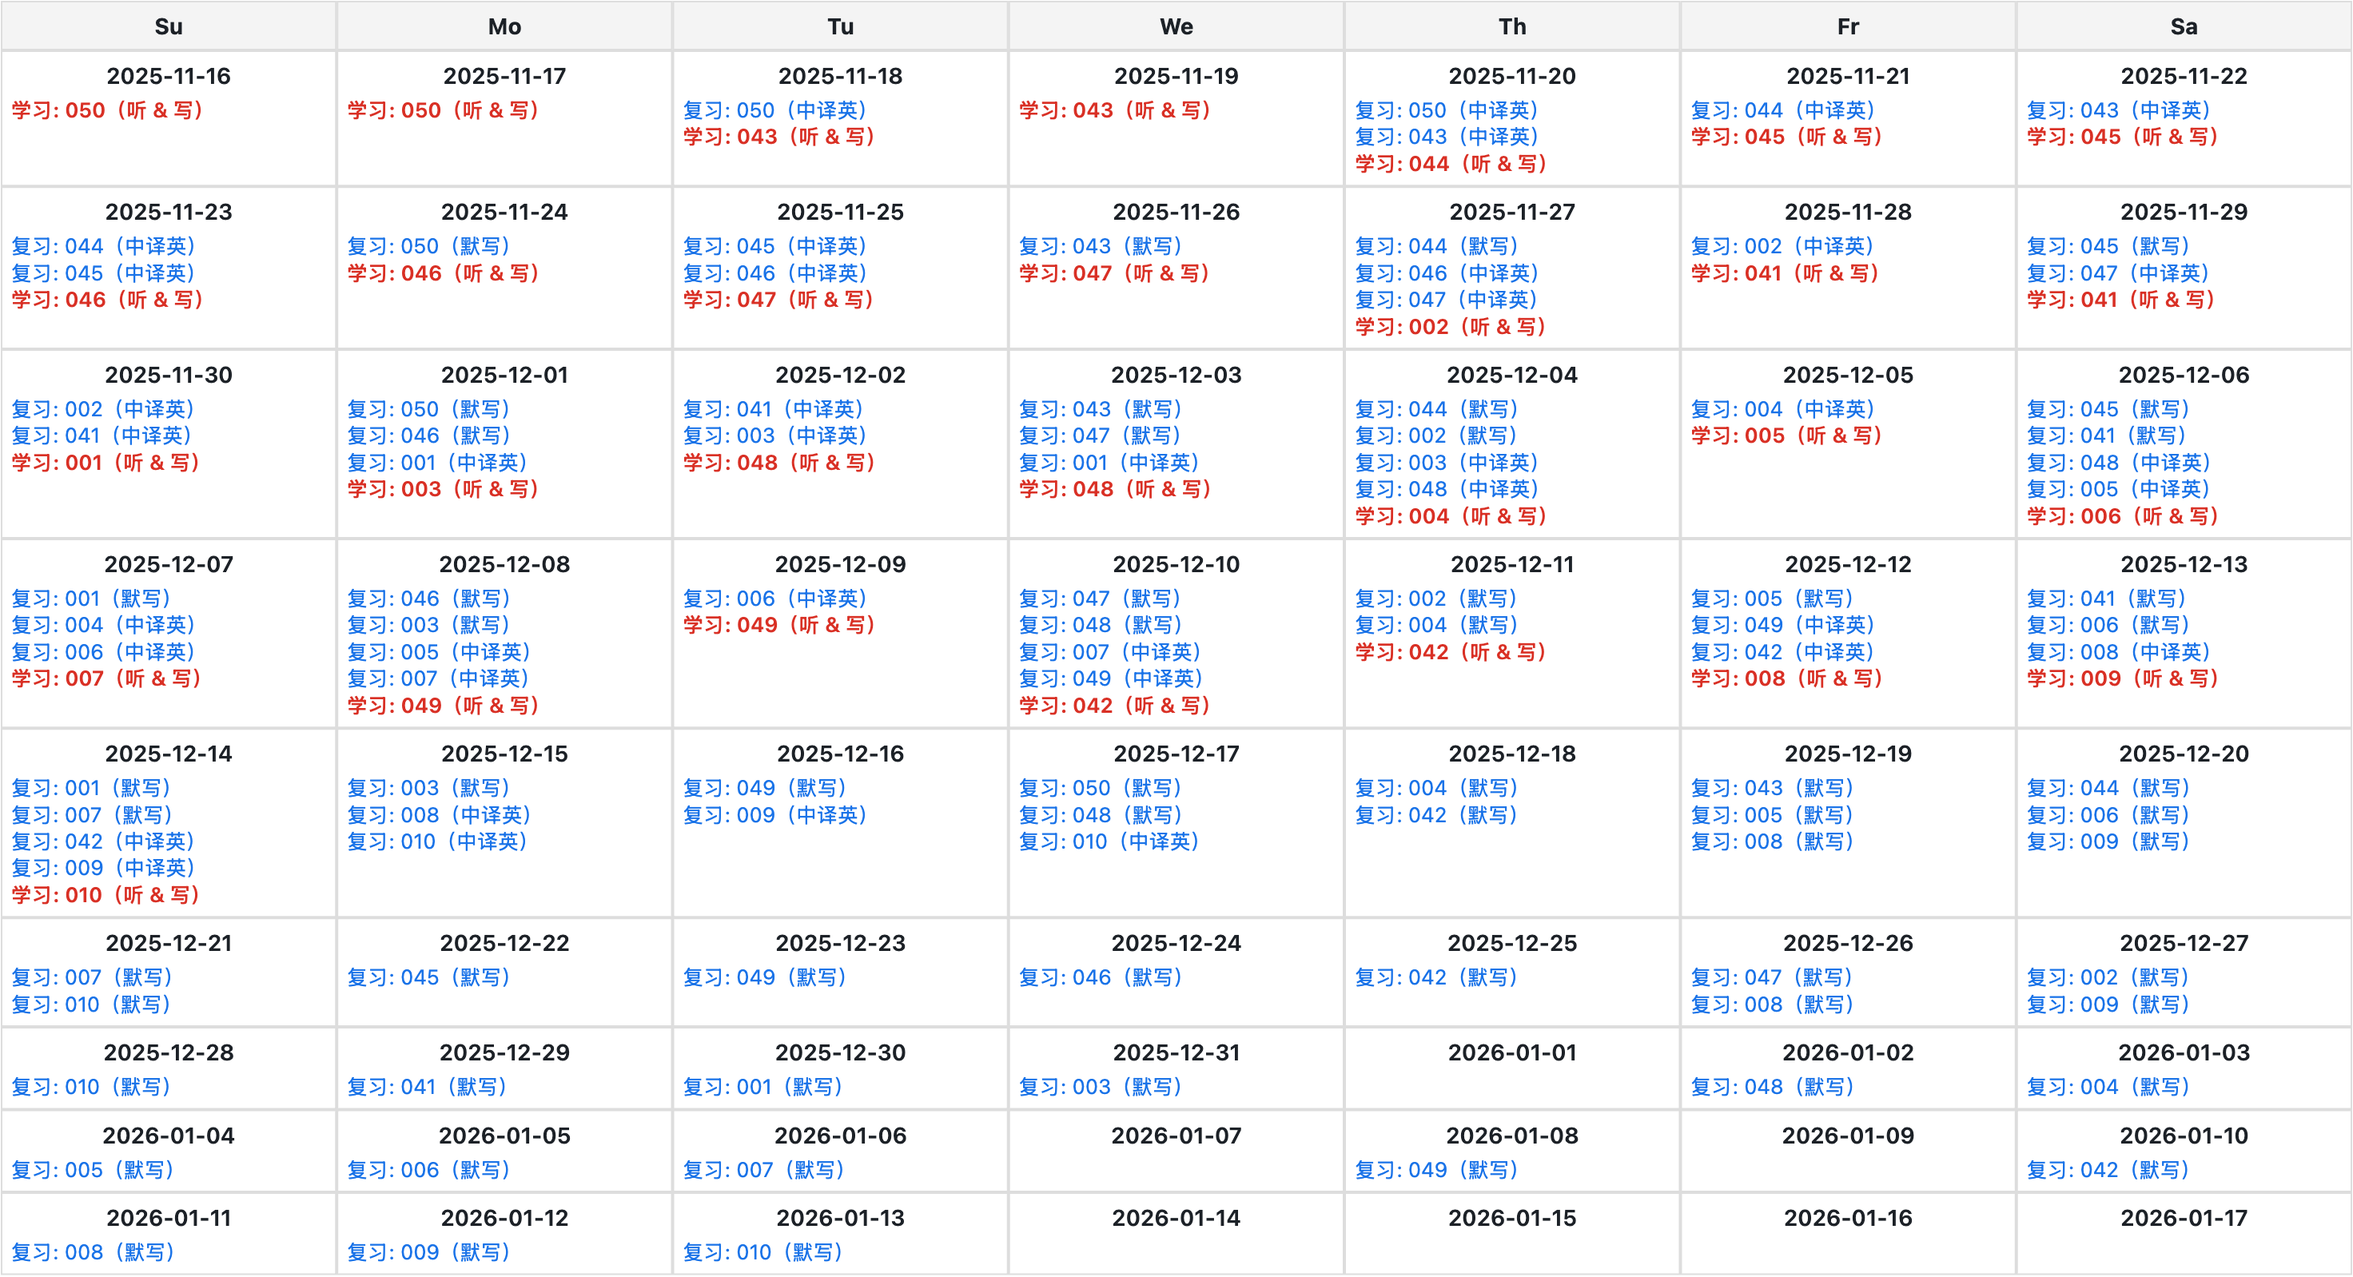
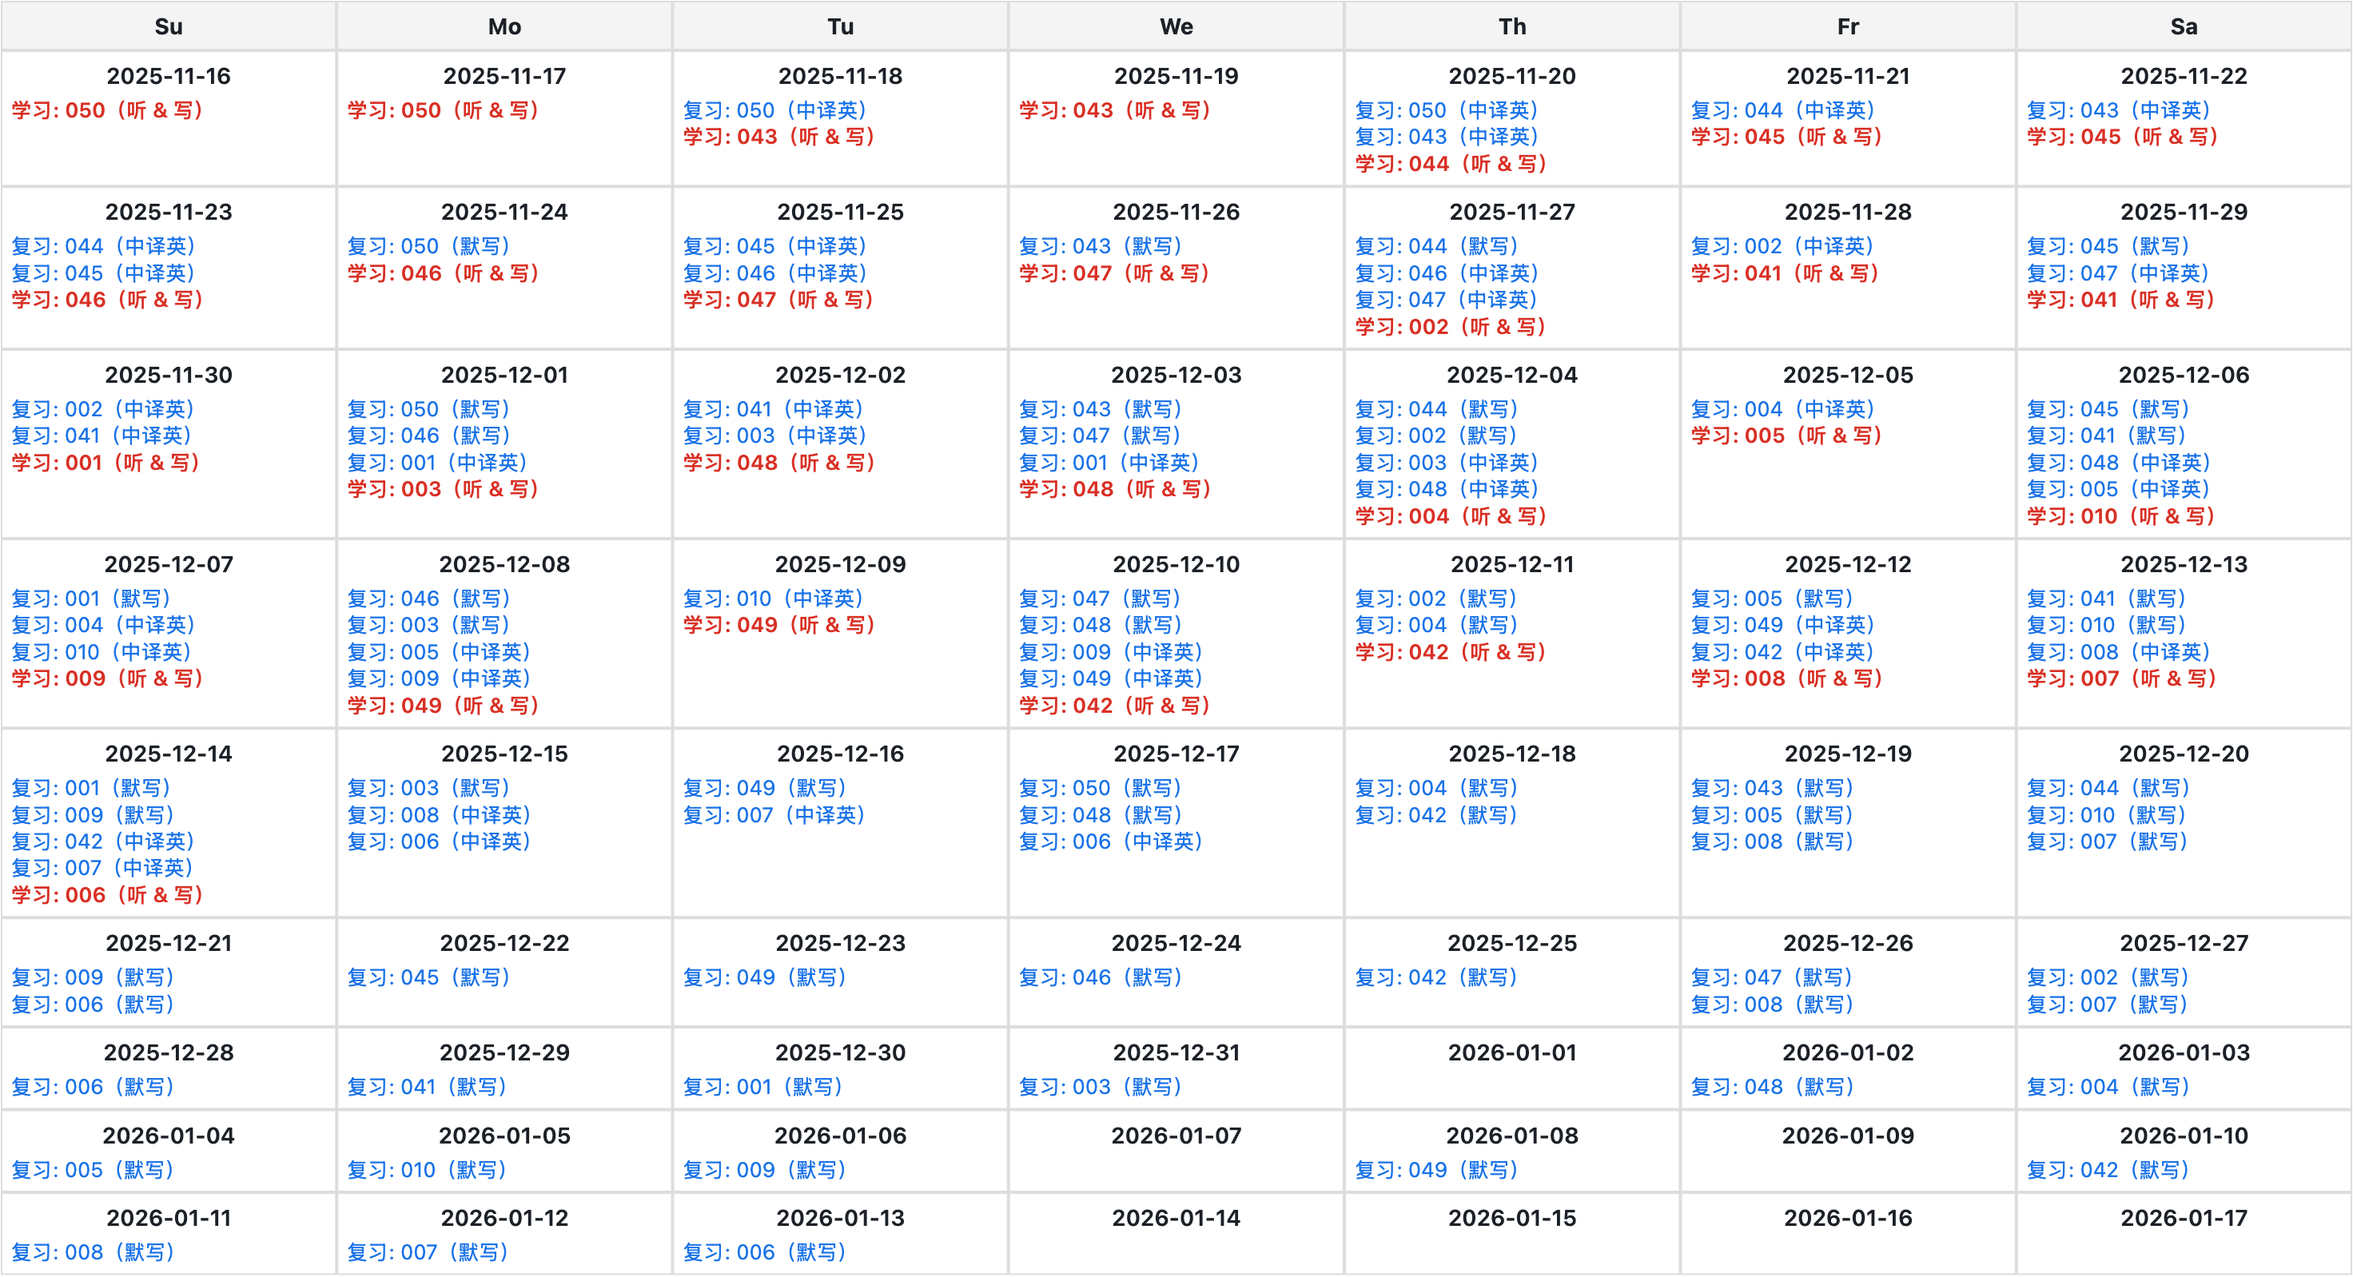
review: Unit 8-2, Unit 14-1, Unit 14-2

diff --git a/english/write/utils/compare-online.html b/english/write/utils/compare-online.html
@@ -181,10 +181,24 @@
         <div><span class="red-text-green-bg">(Red text, green background)</span> = Spelling mistake</div>
     </div>
 </div>
-<button onclick="compare()" id="compareBtn" class="hidden"
-        style="background-color: #F9F9F9; color: #000; padding: 8px 16px; border: none; border-radius: 4px; cursor: pointer; font-size: 16px; margin-top: 10px; transition: background-color 0.3s;">
-    Compare
-</button>
+<div style="display: flex; gap: 8px; margin-top: 10px;">
+    <button onclick="compare()" id="compareBtn" class="hidden"
+            style="background-color: #F9F9F9; color: #000; padding: 8px 16px; border: none; border-radius: 4px; cursor: pointer; font-size: 16px; transition: background-color 0.3s;">
+        Compare
+    </button>
+    <button onclick="reset()" id="resetBtn" class="hidden"
+            style="background-color: #f44336; color: white; padding: 8px 16px; border: none; border-radius: 4px; cursor: pointer; font-size: 16px; transition: background-color 0.3s;">
+        Reset
+    </button>
+</div>
+
+<script>
+  // Reset function needs to be defined before the other script
+  function reset() {
+    document.getElementById('textB').value = '';
+    document.getElementById('result').innerHTML = '';
+  }
+</script>
 
 <div id="result" class="diff"></div>
 
@@ -209,6 +223,7 @@
       document.getElementById('textBLabel').classList.remove('hidden');
       document.getElementById('legend').classList.remove('hidden');
       document.getElementById('compareBtn').classList.remove('hidden');
+      document.getElementById('resetBtn').classList.remove('hidden');
 
       // Dictation 模式才显示音频上传
       if (currentMode === 'Dictation') {

diff --git a/utils/html/generate-forgetting-curve-with-task-duration.html b/utils/html/generate-forgetting-curve-with-task-duration.html
@@ -188,15 +188,15 @@
 
         {name: '004', duration: 1},
         {name: '005', duration: 1},
-        {name: '006', duration: 1},
-        {name: '007', duration: 1},
+        {name: '010', duration: 1},
+        {name: '009', duration: 1},
 
         {name: '049', duration: 2},
         {name: '042', duration: 2},
 
         {name: '008', duration: 1},
-        {name: '009', duration: 1},
-        {name: '010', duration: 1}
+        {name: '007', duration: 1},
+        {name: '006', duration: 1},
       ],
       rounds: ['听 & 写',
         {label: '中译英', duration: 1},

diff --git a/english/write/001-020_letter.md b/english/write/001-020_letter.md
@@ -44,12 +44,8 @@ Do not sign your own name at the end of the letter. Use “Zhang Wei” instead.
 ### Example
 
 Dear Bob,<br>
-&emsp;&emsp;I have just arrived at my home from the airport. As I sit down at my desk, I just want to write
-a letter to you to thank you for your warm **reception** in the **cultural** exchange program. You and your family left
-a deep impression upon me. Indeed, the program is one of the most wonderful **memories** in my life.<br>
-&emsp;&emsp;I remember you **mentioned** wanting to **travel** in China. Well, if you come to China, you
-will be warmly welcomed, and it will be my pleasure to be your guide here. If you would like, send me a list beforehand
-of the places you would like to visit.<br>
+&emsp;&emsp;I have just arrived at my home from the airport. As I sit down at my desk, I just want to write a letter to you to thank you for your warm **reception** in the **cultural** exchange program. You and your family left a deep impression upon me. Indeed, the program is one of the most wonderful **memories** in my life.<br>
+&emsp;&emsp;I remember you **mentioned** wanting to **travel** in China. Well, if you come to China, you will be warmly welcomed, and it will be my pleasure to be your guide here. If you would like, send me a list beforehand of the places you would like to visit.<br>
 &emsp;&emsp;Please give my best regards to your family.<br>
 <p align="right">Yours,</p>
 <p align="right">Zhang Wei</p>
@@ -119,9 +115,13 @@ Do not write the address.
 ### Example
 
 Dear Sir or Madam,<br>
-&emsp;&emsp;I bought an electronic dictionary from your online store on January 1st, but after using it for a short period of time, I found it has some problems.<br>
-&emsp;&emsp;To begin with, the battery needs recharging after a mere 2 hours of use. This means that I need to carry my charger with me when I go out for a day. In addition, the buttons on the electronic dictionary are so small that it is nearly impossible to type anything with them. Personally, I find this to be completely unacceptable.<br>
-&emsp;&emsp;Therefore, I would like either to change to another model that works better or a full refund. Your help is greatly appreciated.<br>
+&emsp;&emsp;I bought an electronic dictionary from your online store on January 1st, but after using it for a short
+period of time, I found it has some problems.<br>
+&emsp;&emsp;To begin with, the battery needs recharging after a mere 2 hours of use. This means that I need to carry my
+charger with me when I go out for a day. In addition, the buttons on the electronic dictionary are so small that it is
+nearly impossible to type anything with them. Personally, I find this to be completely unacceptable.<br>
+&emsp;&emsp;Therefore, I would like either to change to another model that works better or a full refund. Your help is
+greatly appreciated.<br>
 <p align="right">Yours sincerely,</p>
 <p align="right">Zhang Wei</p>
 
@@ -137,17 +137,32 @@ Dear Sir or Madam,<br>
 
 ## 005
 
-Dear Professor Smith<br>
-&emsp;&emsp;On behalf of the "Talents" English Speech Contest committee, I'm writing to invite you to be our
-new judge.<br>
-&emsp;&emsp;As **the core** of our "Foreign Culture Festival", this school-wide contest **is to be held** in
-the Students' **Auditorium** on May 12 (next Sunday). And we believe that you can give our **competitors** some
-enlightening comments as both a native-English speaker and a knowledgeable professor. Specifically, the event **will
-start** at around 7:00 p.m. and **last for** 2 hours at most. At the end of it, we will have some hand-made **presents**
-for each judge and competitor.<br>
-&emsp;&emsp;Once again, we sincerely hope you can be the judge **for** our competition.
+### Directions
+
+&emsp;&emsp;Write an e-mail of about 100 words to a foreign teacher in your college, inviting him/her to be a judge for the upcoming English speech contest.
+&emsp;&emsp;You should include the details you think necessary.
+&emsp;&emsp;You should write neatly on the ANSWER SHEET.
+&emsp;&emsp;Do not sign your own name at the end of the e-mail. Use “Li Ming” instead.
+&emsp;&emsp;Do not write the address.
+
+### Example
+
+Dear Professor Smith,<br>
+&emsp;&emsp;On behalf of the "Talents" English Speech Contest committee, I am writing to invite you to serve as one of our judges.<br>
+&emsp;&emsp;As a key event of the "Foreign Culture Festival", this school-wide contest is to be held in the Students' Auditorium on May 12 (next Sunday). And we believe that you can provide some valuable and enlightening comments for our competitors as both a native English speaker and a knowledgeable professor. Specifically, the event will start at around 7:00 p.m. and last for two hours at most. At the end of it, we will have some hand-made presents for each judge and competitor.<br>
+&emsp;&emsp;Once again, we sincerely hope you can be the judge for our competition.
 <p align="right">Yours sincerely,</p>
 <p align="right">Li Ming</p>
+
+### 译文
+
+尊敬的史密斯教授:<br>
+&emsp;&emsp;谨代表“天才”英语演讲比赛委员会，我写这封邮件是为了邀请您担任我们的新评委。<br>
+&emsp;&emsp;作为“外国文化节”的核心部分，这场全校性的比赛将于5月12日（下周日）在学生大礼堂举行。我们相信您作为一位以英语为母语的人士和知识渊博的教授，能给参赛选手一些启发性的评论。具体来讲，比赛将在晚上七点左右开始，最多持续两个小时。比赛的最后，我们将给每位评委和选手送上一些手工礼物。<br>
+&emsp;&emsp;我们再次真诚地希望您能成为我们比赛的评委。
+
+<p align="right">您真诚的，</p>
+<p align="right">李明</p>
 
 ## 006
 

diff --git a/english/word/core/Unit8-2.md b/english/word/core/Unit8-2.md
@@ -62,8 +62,8 @@
     - be subject to doing sth. 容易遭受/可能会经历
 - White noise was played into the **subject**'s ears through headphones.
 - Prices may be **subject** to the relation of supply and demand.
-- The study is a genome([ˈdʒinoʊm] n. 基因组)-wide analysis conducted(vt. 实施) on 1932 unique(adj. 独特的) **subjects**
-  which compared pairs of unrelated friends and unrelated strangers([st'reɪndʒəz] n. 陌生人).
+- The study is a genome([ˈdʒinoʊm] n. 基因组)-wide analysis *conducted(vt. 实施)* on 1932 *unique(adj. 独特的)*
+  **subjects** which compared pairs of unrelated friends and unrelated strangers([st'reɪndʒəz] n. 陌生人).
     - conducted on 1932 unique **subjects** 非谓语动词短语做定语，修饰名词 analysis
 - In addition, the computer programs <ins>a company uses to estimate relationships</ins> may _be_ patented and not
   ***subject*** _to_ peer review or outside evaluation.
@@ -74,12 +74,12 @@
       **subjective**.
 - susceptible [səˈseptəbl]
     - adj. 易患病的；易受...影响的
-    - Women are particularly(adv. 特别) **susceptible** to developing(v. 患（病）) depression and anxiety([æŋˈzaɪəti])
-      disorder in response to stress compared to men.
     - be susceptible to (doing) sth. 遭受；承受
         - == be subject to
         - == be vulnerable to
             - vulnerable [ˈvʌlnərəbl] adj. （地方）易受攻击的; 易受伤的; 易受批评的
+    - Women are *particularly(adv. 特别)* **susceptible** to *developing(v. 患（病）)* depression and anxiety([æŋˈzaɪəti])
+      disorder in response to stress compared to men.
 
 ## success
 
@@ -97,10 +97,9 @@
 - successive [səkˈsesɪv]
     - adj. 连续的，依次的；接替的
     - But **successive** governments have *presided([priˈzaidid] v. 主持)* over selling green spaces, squeezing money
-      from
-      local authorities and declining attention on sport in education.
+      from local authorities and declining attention on sport in education.
 - fail
-    - vi. 失败；未能（做到）；出故障；
+    - vi. 失败；未能（做到）；出故障
     - vt. 使失望
     - failure [ˈfeɪljər] n. 失败；失败的事
 
@@ -115,8 +114,8 @@
     - uniform n. 制服
 - alliance [əˈlaɪəns]
     - n. 联盟，结盟
-    - A native literary([ˈlɪtəreri] adj. 文学的) drama had been created, its **alliance** with the public playhouses
-      established, and at least some of its great traditions(n. 传统) had been begun.
+    - A native *literary([ˈlɪtəreri] adj. 文学的)* drama had been created, its **alliance** with the public playhouses
+      established, and at least some of its great *traditions(n. 传统)* had been begun.
 - align
     - v. 公开支持；与...一致
     - == support

diff --git a/english/word/core/Unit14-1.md b/english/word/core/Unit14-1.md
@@ -122,7 +122,10 @@
 - 词组
     - weigh on 使（某人或某人的精神等）忧虑
     - weigh down 使负荷太重
-    - weigh in （在讨论、辩论等中）发表有分量的意见；**加入**比赛；（赛前）测体重
+    - weigh in 体重以确定参赛资格；**加入**比赛；
+        - 引申
+            - （比喻）（在讨论、辩论等中）发表看法 / 参与讨论
+            - （比喻）加入、介入某个争议或事件；发表有分量的意见
 - Republican Speaker of the House of Representatives John Boehner was also quick to **weigh in**.
 - Two potential giants may yet **weigh in**.
 - Leading doctors today **weigh in** on the debate over the government's role in promoting public health...
@@ -147,7 +150,7 @@
 - adj. 值...钱；值得
 - 词组
     - be worth doing sth. 值得做某事
-    - be worth sb.'s while (to do/doing sth.) 值得某人做某事
+    - be worth sb.'s while to do sth. 值得某人花时间/精力去做某事
 - It's not **worth** losing sleep over.
 - How much is this painting **worth**?
 - worthwhile
@@ -186,6 +189,7 @@
 
 - [prəˈpoʊz]
 - vt. 提出；提议
+- purpose [ˈpɜːrpəs] n. 目的；目标
 - proposal [prəˈpoʊzl]
     - n. 提议
     - ...they *presumably([prɪˈzuːməbli] adj. 相反的)* have enough independence to disagree with the chief executive's

diff --git a/english/write/essay-materials.md b/english/write/essay-materials.md
@@ -6,12 +6,10 @@
 
 #### General Description
 
-- The diagram above clearly illustrates... 上面的图标清楚地揭示了
+- The pie/bar chart above clearly illustrates/reveals/reflects...
 - The diagram above clearly illustrates that a dramatic increase has occurred in... 上面的图表清楚地表明，在...方面出现了显著的增长
 - From the information given in the above column chart, we can see... 根据上面的柱状图提供的信息，我们可以看出
-- This pie chart clearly illustrates...
-- The pie chart above clearly reveals...
-- The bar chart above clearly reflects...
+    - From the information given in the above column chart, we can see a striking contrast between developing and developed countries in mobile-phone subscriptions from 2000 to 2008.
 - As can be seen from the bar chart above,... 从上面的柱状图可以看出
 
 ##### Transition

diff --git a/english/write/letter-materials.md b/english/write/letter-materials.md
@@ -1,0 +1,19 @@
+# Materials
+
+## in/on/at
+
+### 地点介词
+
+| 介词     | 意思  | 使用场景           |
+|--------|-----|----------------|
+| **in** | 在里面 | 房间、国家、城市、建筑物内部 |
+| **on** | 在上面 | 表面、楼层、舞台       |
+| **at** | 在点上 | 具体位置、入口、机构点位   |
+
+### 时间介词
+
+| 介词     | 用于            | 示例                              |
+|--------|---------------|---------------------------------|
+| **in** | 月份、年份、季节、较长时间 | in May, in 2025, in the morning |
+| **on** | **具体日期/星期**   | on May 12, on Sunday            |
+| **at** | **具体时间点**     | at 3 pm, at midnight            |

diff --git a/english/word/core/Unit14-2.md b/english/word/core/Unit14-2.md
@@ -221,7 +221,7 @@
     - Under **lobby** pressure, George Osborne favours rural new-build against urban renovation and renewal.
 - elect
     - vt. 选举
-    - In a direct democracy, citizens <ins>take turns(take turns)</ins> governing themselves, rather than **electing**
+    - In a direct democracy, citizens <ins>take turns(轮流)</ins> governing themselves, rather than **electing**
       representatives to govern for them.
         - A rather than B 肯定A否定B
     - election n. 选举

diff --git a/english/word/core/Unit3-1.md b/english/word/core/Unit3-1.md
@@ -180,6 +180,8 @@
 - n. 服务；国家政府部门
 - serve
     - v. 为（人、机构）服务；上（食物、饮料）；对...有用；履行义务；可用作
+    - serve as 充当...；作为...使用；担任...
+    - serve on 在...任职/担任...成员
     - ...all citizens who meet minimal qualifications of age and literacy are equally competent to **serve** on juries.
 - servant [ˈsɜːrvənt]
     - n. 仆人

diff --git a/english/word/core/Unit18-1.md b/english/word/core/Unit18-1.md
@@ -36,7 +36,7 @@
     - Delicate things，like a flower，a necklace，or someone's feelings are fragile，easily broken，and often quite
       beautiful.
     - In Its early days the U.S. was confronted with delicate situations.
-    - vulnerable 脆弱的
+    - vulnerable adj. （地方）易受攻击的; 易受伤的; 易受批评的
 
 ## master
 
